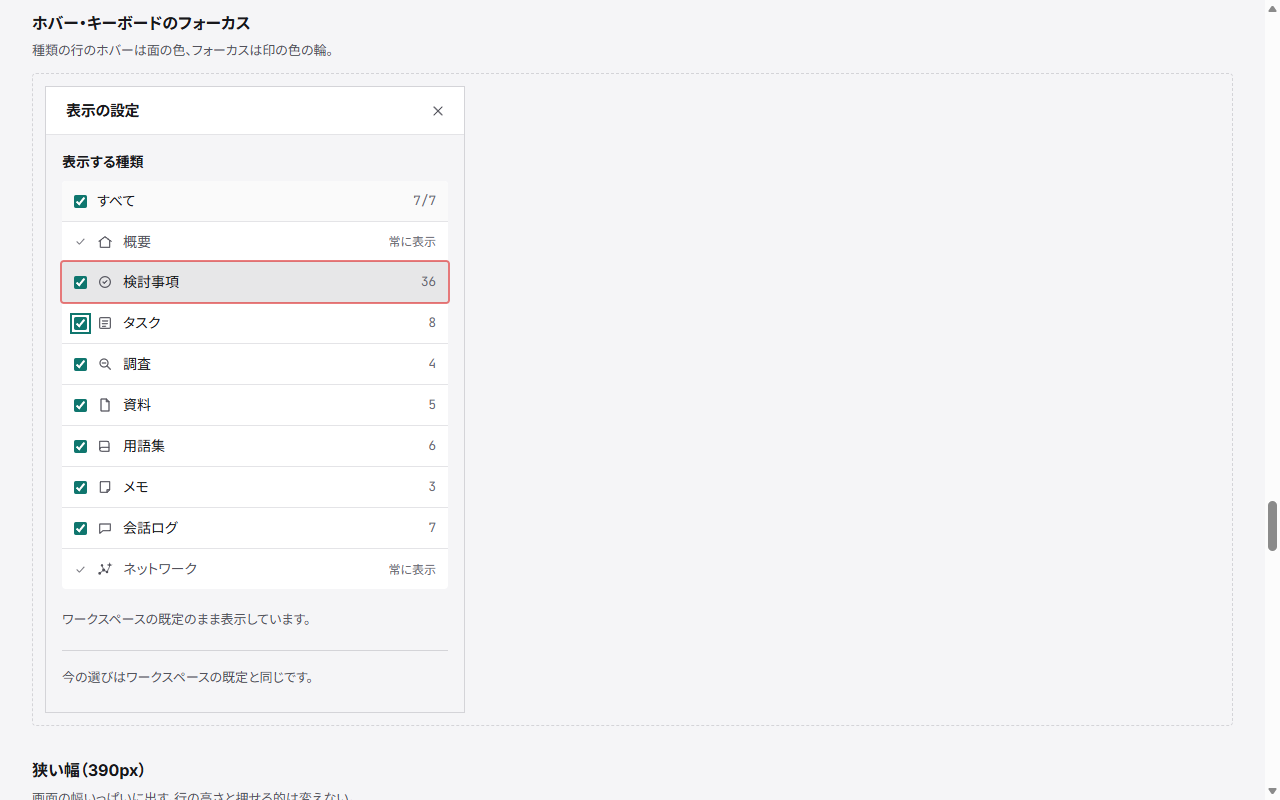
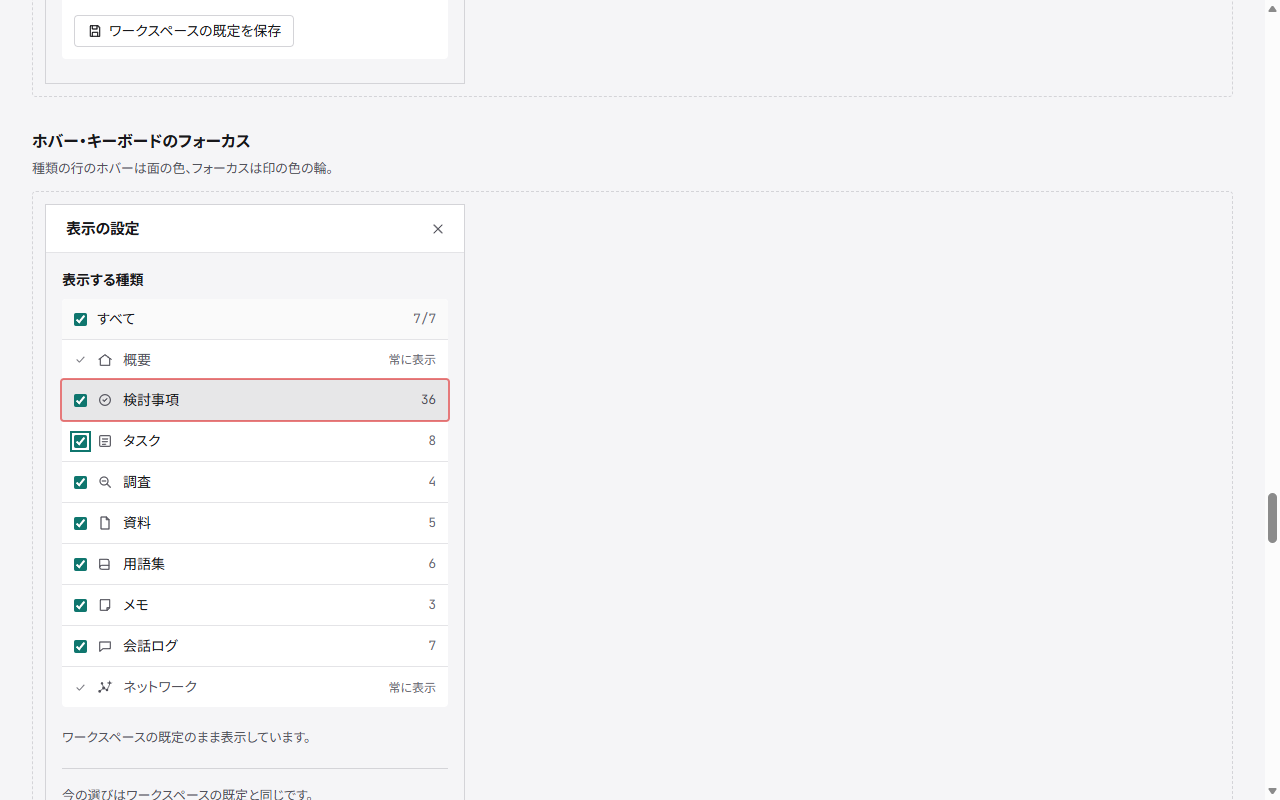
mock: 表示の設定の種類の行のホバーで、件数の文字を 1 段濃くしてコントラストを満たす

diff --git a/dev/mock/refs/123/assets/style.css b/dev/mock/refs/123/assets/style.css
@@ -1,4 +1,4 @@
-/* 89 のスタイルの上に重ね、ネットワークの見た目の選びと、検討事項のマップの節の鍵を足す分 */
+/* 89 と 95 のスタイルの上に重ね、ネットワークの見た目の選び・検討事項のマップの節の鍵と、表示の設定の種類の行のホバーを足す分 */
 
 /* ネットワークの見た目の選び: キャンバスの右上に重ねる、アイコンの無いドロップダウン。高さはほかの操作部品と揃える */
 .look-pick { position: absolute; top: 12px; right: 12px; z-index: 2; }
@@ -28,3 +28,6 @@ button.n-item.sel, button.n-item.locked { padding-right: 20px; }
 
 /* ロック中に詳細を開いた節: 強調の外でも薄くしない */
 .map-canvas.focusing button.n-item.sel { opacity: 1; }
+
+/* 表示の設定の種類の行のホバー: 面の色が濃くなる分、件数の文字を 1 段濃くして読めるようにする */
+.st-kinds label:hover .n { color: var(--text-2); }

diff --git a/dev/mock/pages/settings-panel/123/standard/index.html b/dev/mock/pages/settings-panel/123/standard/index.html
@@ -20,6 +20,8 @@
   <link rel="stylesheet" href="../../../../refs/78/assets/style.css">
   <!-- 表示の設定のボタン・パネル・既定の保存の確かめ・届いた既定の知らせで足すスタイル -->
   <link rel="stylesheet" href="../../../../refs/95/assets/style.css">
+  <!-- 種類の行のホバーで件数の文字を濃くする分 -->
+  <link rel="stylesheet" href="../../../../refs/123/assets/style.css">
   <!-- Markdown の描画と無害化、マップの配置の計算: 版を固定し、integrity でファイルの中身を確かめる -->
   <script src="https://cdn.jsdelivr.net/npm/marked@18.0.14/lib/marked.umd.js" integrity="sha384-2vpGtuKqJvFlwJqYnf/wUMuzUfhUnYBt9oay0e2yaFcq0Dh6/aEbQ8YAOeKGzlYo" crossorigin="anonymous" defer></script>
   <script src="https://cdn.jsdelivr.net/npm/dompurify@3.4.16/dist/purify.min.js" integrity="sha384-a7SzOxErzJ3ZpQz0zJ32d67dSitNzPcbfybc/ykU9KJhMgZkwqfSxlhhdJRS+XGL" crossorigin="anonymous" defer></script>

diff --git a/dev/mock/components/settings-panel/index.html b/dev/mock/components/settings-panel/index.html
@@ -17,6 +17,8 @@
   <link rel="stylesheet" href="../../refs/78/assets/style.css">
   <!-- 表示の設定のパネルと確かめの分 -->
   <link rel="stylesheet" href="../../refs/95/assets/style.css">
+  <!-- 種類の行のホバーで件数の文字を濃くする分 -->
+  <link rel="stylesheet" href="../../refs/123/assets/style.css">
   <style>
     /* カタログの節: 状態ごとの案を縦に並べる */
     .cat-sec { margin-top: 32px; }
@@ -38,6 +40,8 @@
     .stage dialog.confirm.narrow { width: 288px; }
     /* 状態を見せるための見本のクラス */
     .is-hover { background: var(--hover) !important; }
+    /* ホバーの見本の件数: 本物のホバーと同じく 1 段濃くする */
+    .is-hover .n { color: var(--text-2); }
     .is-focus { outline: 2px solid var(--accent); outline-offset: 2px; }
   </style>
   <!-- 表示の設定のパネルと確かめの中身の組み方（画面のモックと共有） -->
